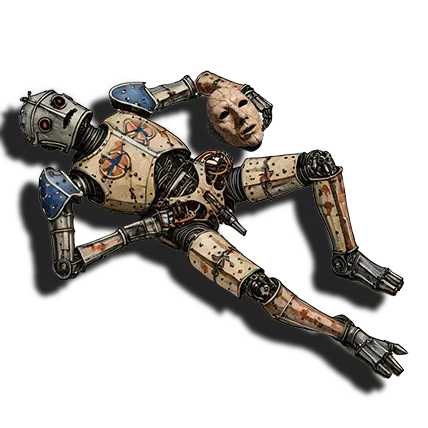
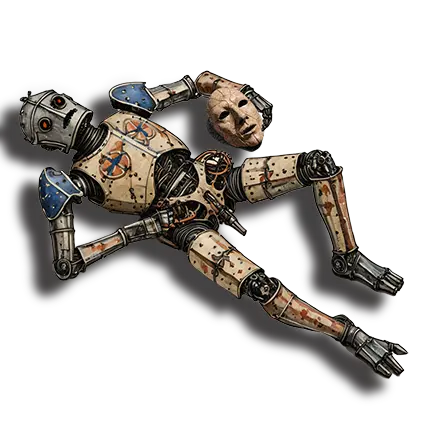
Replace robot image with WebP format
Updated blog post to use robot.webp instead of robot.png for improved performance. Removed the PNG file and updated the image reference in the post.

diff --git a/_posts/2025-07-28-masking.md b/_posts/2025-07-28-masking.md
@@ -96,7 +96,7 @@ comments: true
   <p>Waar begin ik met naar mezelf kijken en moet ik dat eigenlijk wel doen? Wat is het voordeel? Word ik gelukkiger als ik mezelf ben of ga ik doen alsof ik extra autistisch ben? Probeer ik iets te repareren wat niet kapot is?</p>
   <p>Ik probeer geen schaamte te voelen over wie ik ben, wat ik ben. Ik ben gewoon ik, niet iemand met een handicap of een kapot brein. Het is echt moeilijk om mezelf gewoon te laten zijn. Ik weet niet eens meer wie ik ben. Hopelijk helpt het schrijven van deze blog me hierbij.</p>
   <div class="page-image-center">
-    <img src="/assets/images/marginalia/robot.png" alt="Een kapotte robot met een menselijk masker" style="max-width: 240px;" />
+    <img src="/assets/images/marginalia/robot.webp" alt="Een kapotte robot met een menselijk masker" style="max-width: 240px;" />
   </div>
 </div>
 
@@ -184,6 +184,6 @@ Like that one time when I was 16 and decided to drop out of high school, the onl
 <p>Where do I even begin looking inside myself and should I even bother? What is the benefit? Will I be happier being myself or will I turn into someone pretending to be extra autistic? Am I trying to fix something that isn't broken?</p>
 <p>I am trying to not feel shame about who I am, what I am. I am just me, not someone with a handicap or with a broken brain. It's really hard to allow myself to just be me. I don't even really know who me is anymore. Hopefully writing this blog will help me with this.</p>
   <div class="page-image-center">
-  <img src="/assets/images/marginalia/robot.png" alt="A broken robot with a human mask" style="max-width: 240px;"/>
+  <img src="/assets/images/marginalia/robot.webp" alt="A broken robot with a human mask" style="max-width: 240px;"/>
   </div>
 
